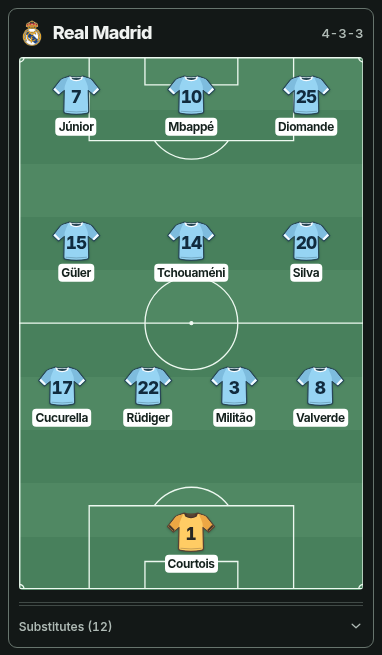
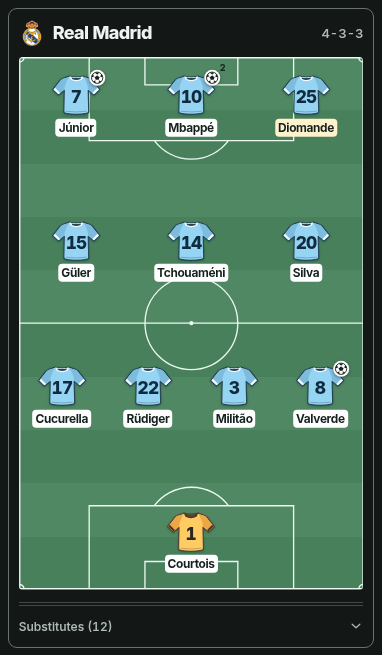
Match page: set mobile hero scorer type to 12px
Names were missing in the first review shots because the local fixture
seed had null player_ids and only mid-match goals, not because CSS
clipped them. Bump .mc-team small from 11px to 12px on mobile so names
stay legible (AA contrast) and centred. Refresh English 390/360 after shots.

diff --git a/src/components/match/centre/match-centre.css b/src/components/match/centre/match-centre.css
@@ -1204,9 +1204,11 @@
     font-size: 17px;
   }
   .mc .mc-team small {
-    font-size: 11px;
+    font-size: 12px;
     margin-top: 0;
     text-align: center;
+    overflow-wrap: anywhere;
+    line-height: 1.25;
   }
   .mc .mc-scorers:empty {
     display: none;

diff --git a/docs/reviews/mobile-hero-pitch-2026-11/README.md b/docs/reviews/mobile-hero-pitch-2026-11/README.md
@@ -56,4 +56,26 @@ Copies in `shots/`.
 - Hero 390 before/after: `shots/before-hero-en-m390.png`, `shots/after-hero-en-m390.png`
 - Hero 360 (name wrap): `shots/after-hero-en-m360.png`
 - Line-ups 390 before/after: `shots/before-lineups-en-m390.png`, `shots/after-lineups-en-m390.png`
-- Desktop 1440 no-change check: `shots/before-hero-en-d1440.png` / `after-hero-en-d1440.png` and the line-ups pair (0 px difference)
+- Desktop 1440 no-change check: the original pair (commit e39fda7) was pixel-identical. The later after shots include named full-time scorers from a fuller local seed, so they differ in text only. Desktop CSS (≥768) is unchanged.
+
+## Follow-up: scorer names (2026-11-25 01:32 GMT / Europe/London)
+
+Abdilahi noted the first after-hero 390 shot showed minutes only (`50′ 60′ 64′`,
+PSV `32′ (P)`), with 84′ and 87′ missing.
+
+Cause: local `fixture_events` for 1635715 had `player_id` NULL (so `nameOf`
+returned nothing and the board rendered minutes only) and only the mid-match
+goals. This was not CSS clipping or a #62 grouping regression. The same
+minutes-only hero appeared on `origin/main` with that seed.
+
+Local seed only (not in this PR): Valverde 50′, Bellingham 60′, Mbappé 64′ 84′,
+Vinícius Júnior 87′, Perisic 32′ (P), with player ids set.
+
+Typography: mobile `.mc .mc-team small` is **12px** (was 11px). Colour is
+`--muted` `#afbab5` on the board `#131817`, contrast **8.98:1** (AA). Names
+stay centred under each team and fit on one line at 390 and 360. Desktop
+scorer type stays 14px.
+
+The kicker wrap (“UEFA Champions League” / “League Stage - 5”) is already
+present on the before-390 shot and is not a #64 regression, so it was left
+alone.
